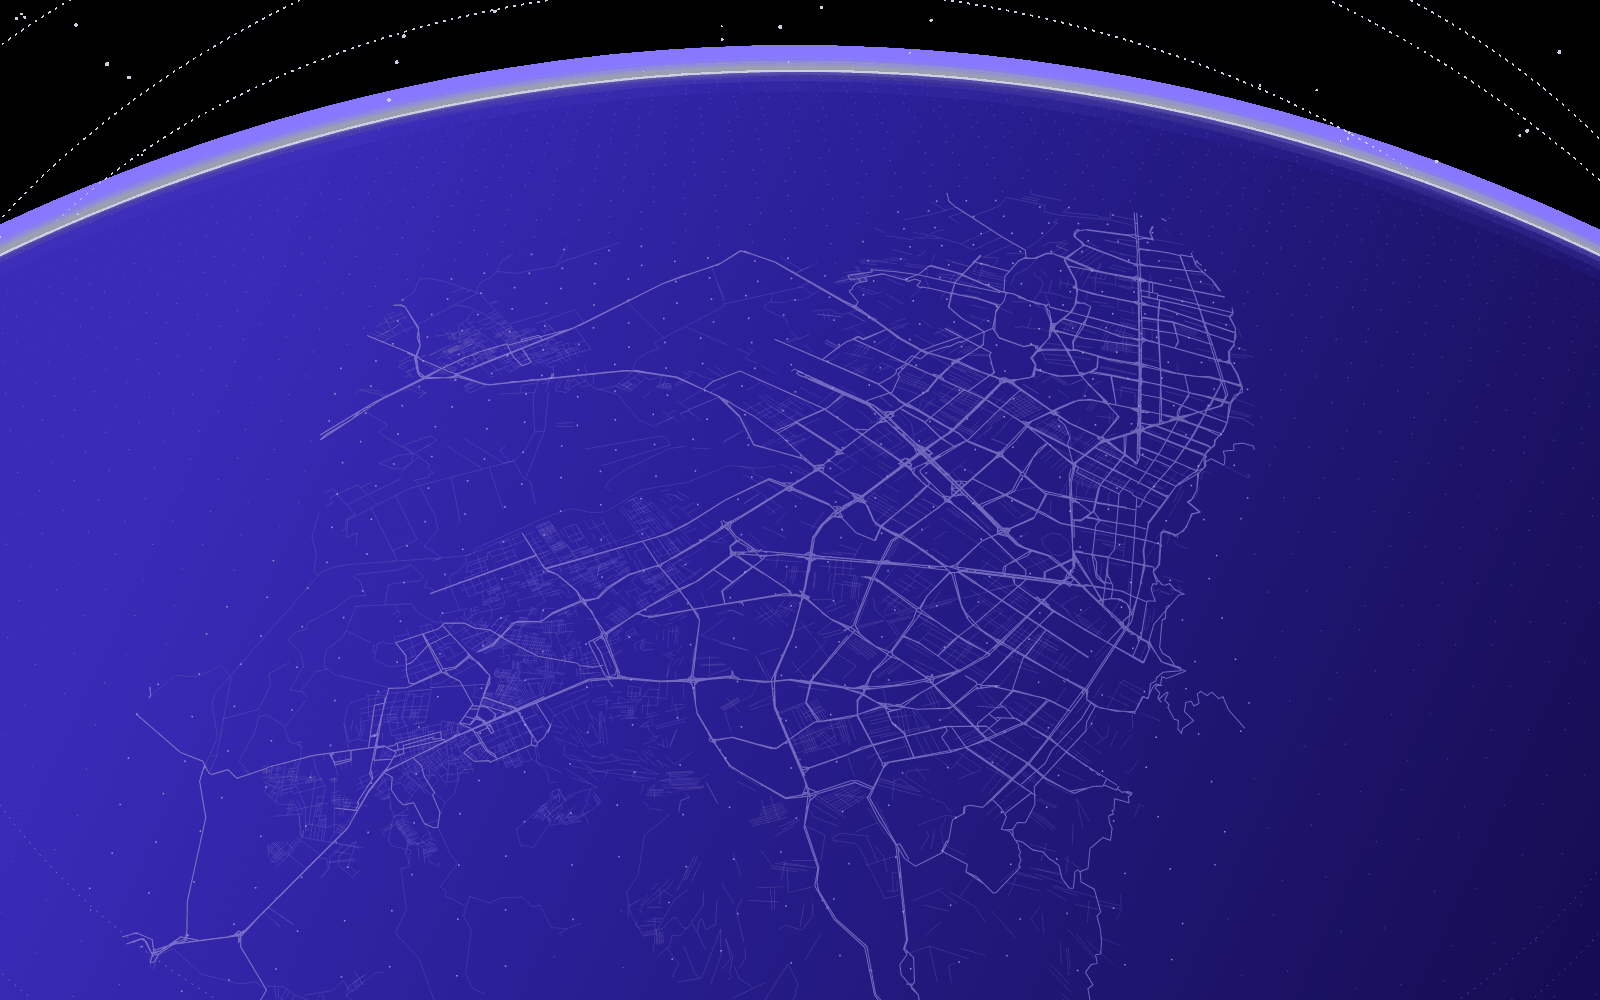
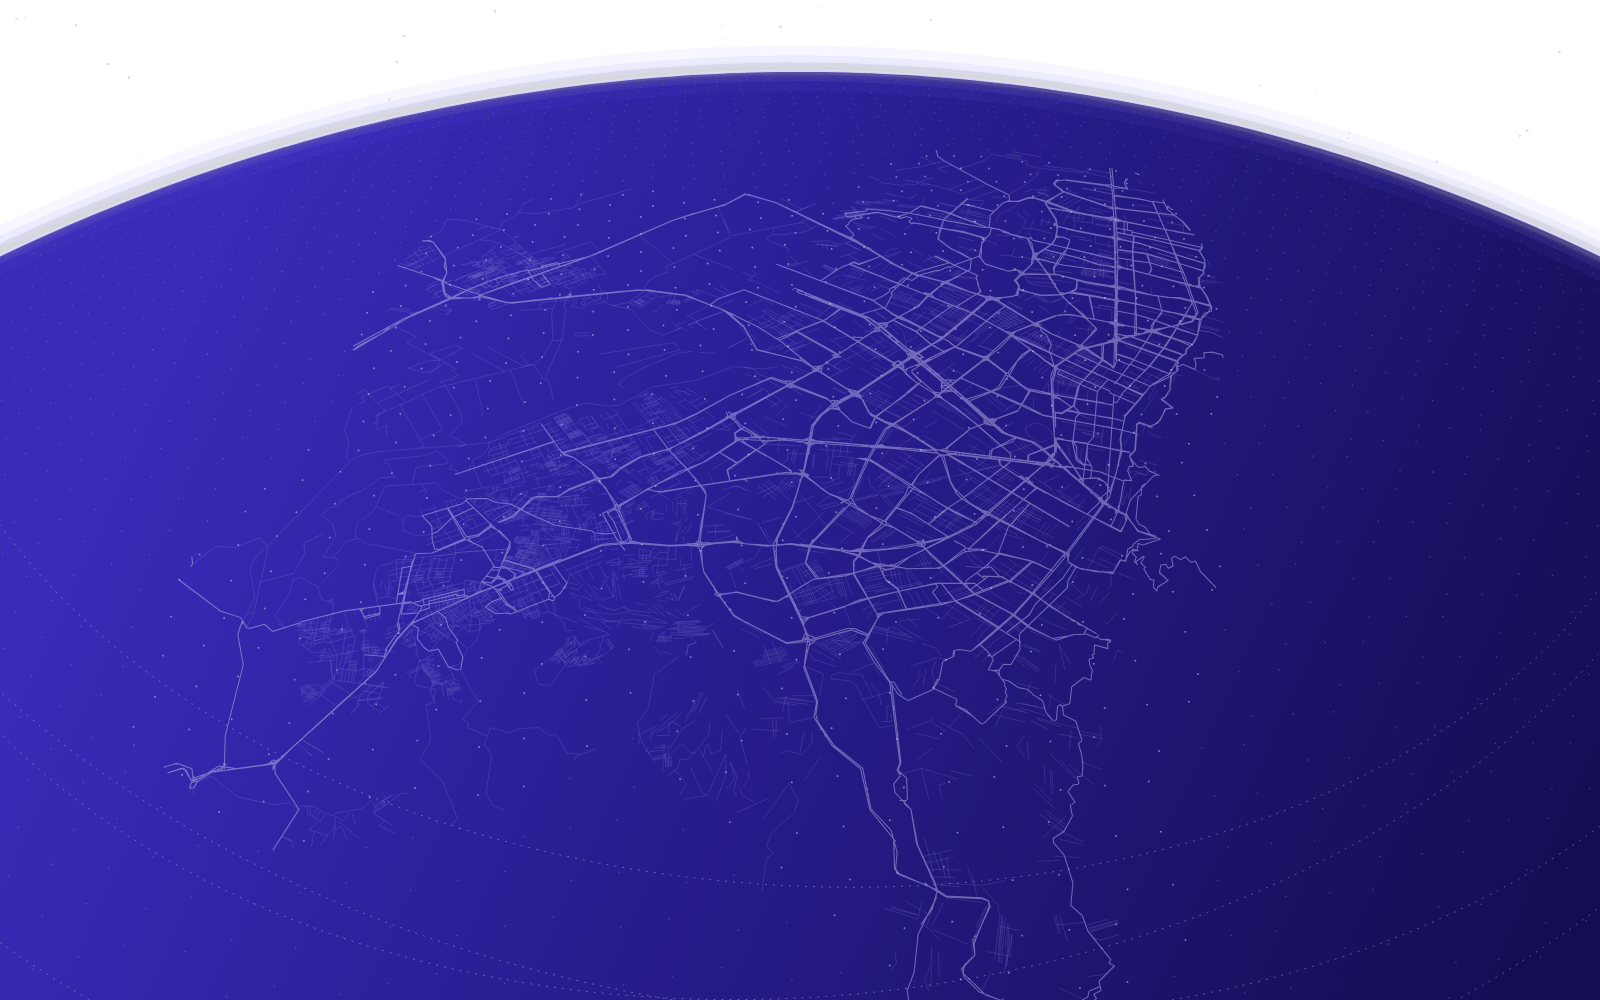
Planeta: espacio transparente (no negro), sin bandas y ciudad un tercio más cerca del horizonte
Claude-Session: https://claude.ai/code/session_01DxqiBbSv11VANarNNGiE5G

diff --git a/index.html b/index.html
@@ -14,8 +14,8 @@
     <link rel="icon" href="IMG/icon-192.png">
     <link rel="stylesheet" href="Styles/upgrade.css?v=22">
     <!-- El planeta es una imagen ya dibujada: se precarga la de cada dispositivo -->
-    <link rel="preload" href="IMG/planeta-oblicuo.png?v=7" as="image" type="image/png" media="(min-width: 901px) and (orientation: landscape)">
-    <link rel="preload" href="IMG/planeta-frontal.png?v=7" as="image" type="image/png" media="(max-width: 900px), (orientation: portrait)">
+    <link rel="preload" href="IMG/planeta-oblicuo.png?v=8" as="image" type="image/png" media="(min-width: 901px) and (orientation: landscape)">
+    <link rel="preload" href="IMG/planeta-frontal.png?v=8" as="image" type="image/png" media="(max-width: 900px), (orientation: portrait)">
     <script>document.documentElement.classList.add('js');</script>
 </head>
 <body>
@@ -346,7 +346,7 @@
 </div>
 </main>
 
-<script src="Scripts/planeta.js?v=29" defer></script>
+<script src="Scripts/planeta.js?v=30" defer></script>
 <script src="https://cdnjs.cloudflare.com/ajax/libs/leaflet/1.9.4/leaflet.min.js" defer></script>
 <script src="Scripts/scriptindex.js?v=2" defer></script>
 

diff --git a/Scripts/planeta.js b/Scripts/planeta.js
@@ -129,7 +129,7 @@
     const v = canvas.dataset.vista || (alLado() ? 'oblicuo' : 'frontal');   // data-vista fuerza una vista
     if (v === variante) return;
     variante = v;
-    canvas.style.backgroundImage = `url(${base}IMG/planeta-${v}.png?v=7)`;
+    canvas.style.backgroundImage = `url(${base}IMG/planeta-${v}.png?v=8)`;
     entregas = []; pings.length = 0;
     const usar = (d) => {
       if (variante !== v) return;
@@ -139,7 +139,7 @@
     };
     if (cache[v]) { usar(cache[v]); return; }
     rutas = [];
-    fetch(`${base}Scripts/planeta-${v}.json?v=8`)
+    fetch(`${base}Scripts/planeta-${v}.json?v=9`)
       .then((r) => (r.ok ? r.json() : Promise.reject()))
       .then((d) => {
         d.rutasListas = d.rutas.map((r) => ({ a: r.a, d: r.d, p: deshacer(r.p) }));

diff --git a/herramientas/planeta/LEEME.md b/herramientas/planeta/LEEME.md
@@ -36,9 +36,9 @@ Sirve para cambiar el ángulo, el encuadre o las calles. Necesita Python 3, Node
    node exp.js frontal 1600 1000 '{"ladeo":0,"rumbo":0,"giroMapa":0,"picada":42,"altura":0.42,"atras":0.42,"lente":0.84,"mira":[4.62,-74.14]}' '0.5,0.3' .
    ```
 
-4. Convierte los PNG a WebP (calidad 78) y copia los archivos a `IMG/` y `Scripts/`.
+4. Comprime los PNG con `pngquant --quality 80-98 --speed 1` (conserva la transparencia: el espacio debe quedar transparente, no negro) y copia los archivos a `IMG/` y `Scripts/`. Vista frontal actual: `"despLat":3.8`; oblicua: `{"despLon":-0.3,"despLat":2.6}`.
 
-La perilla `giroMapa` gira la ciudad sobre el planeta sin mover la cámara: así cabe acostada en la vista frontal. Las perillas (`escala`, `mira`, `altura`, `atras`, `rumbo`, `picada`, `ladeo`, `lente`)
+Las perillas `despLat` y `despLon` corren solo la ciudad sobre el planeta (la cámara no se mueve). La perilla `giroMapa` gira la ciudad sobre el planeta sin mover la cámara: así cabe acostada en la vista frontal. Las perillas (`escala`, `mira`, `altura`, `atras`, `rumbo`, `picada`, `ladeo`, `lente`)
 están documentadas al inicio de `planeta-render.js`.
 
 Calles: © colaboradores de OpenStreetMap (ODbL).
